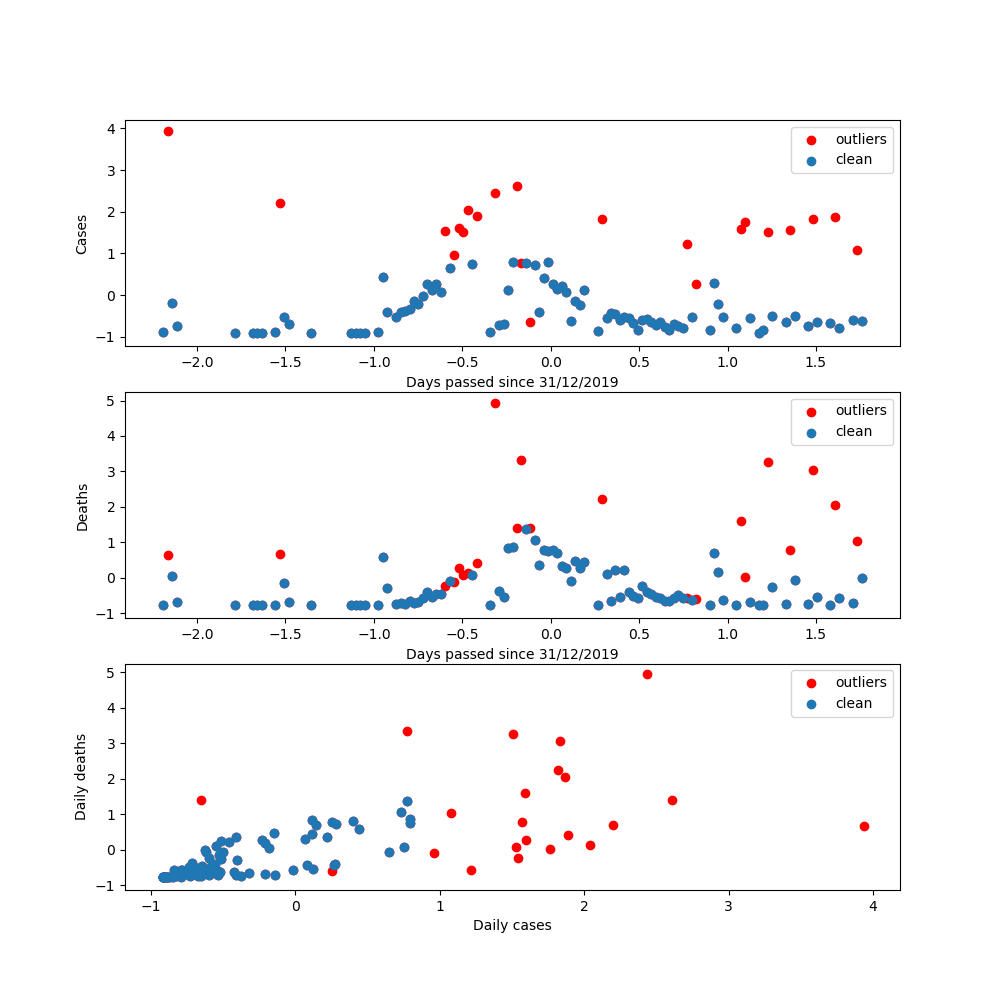
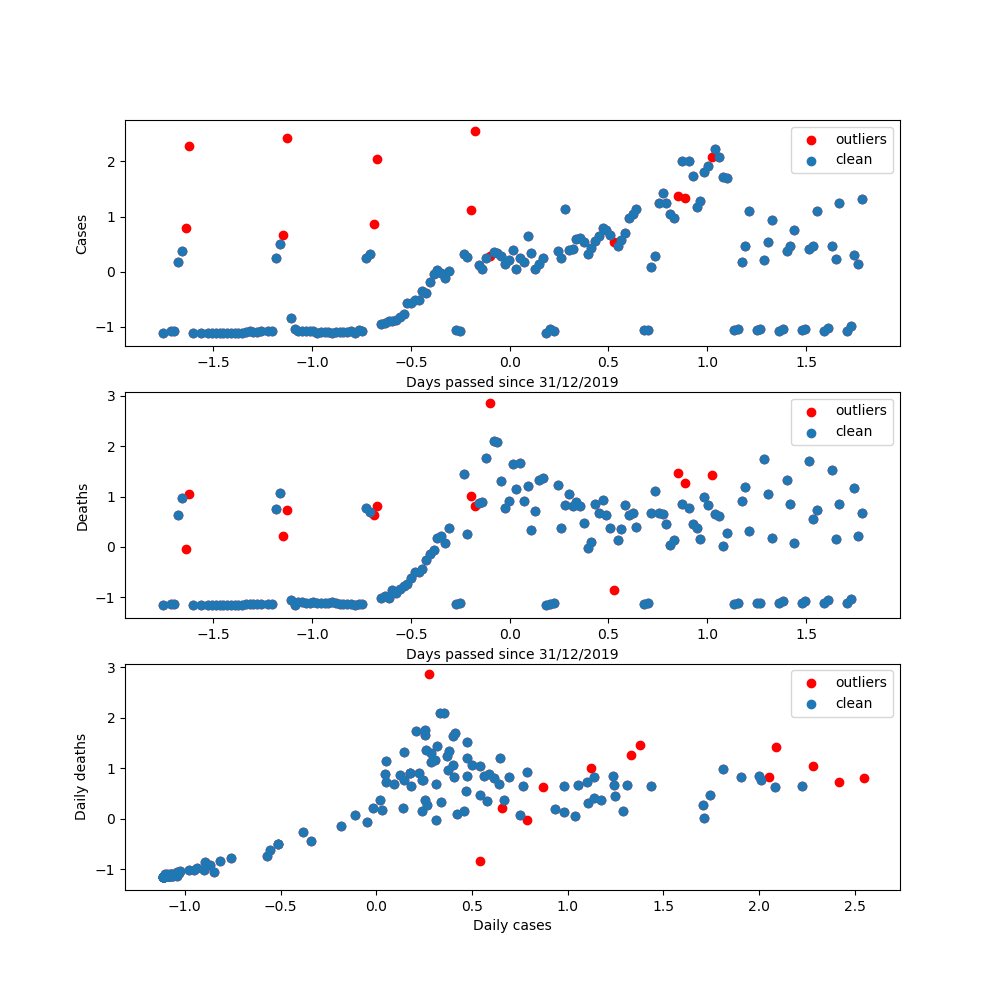
a few modifications

diff --git a/models/linear.py b/models/linear.py
@@ -14,19 +14,8 @@ from sklearn.neighbors import LocalOutlierFactor
 
 
 def linear(data):
-#Casting 1D array in 2D
     x = np.array(data[['time','cases']])
     y = np.array(data['deaths'])
-
-#Removing outliers
-
-#    clf = LocalOutlierFactor(n_neighbors=2, contamination = 0.1)
-#    x = x[clf.fit_predict(y.reshape(-1,1)) == 1]
-#    y = y[clf.fit_predict(y.reshape(-1,1)) == 1]
-    cov = EllipticEnvelope(random_state=0).fit(y.reshape(-1,1))
-    cov.predict(y.reshape(-1,1))
-    x = x[cov.predict(y.reshape(-1,1)) == 1]
-    y = y[cov.predict(y.reshape(-1,1)) == 1]
 
     x_train, x_test, y_train, y_test = train_test_split(x, y, test_size=0.3, random_state=42)
 

diff --git a/other/non-linear.py b/other/non-linear.py
@@ -28,12 +28,7 @@ x = np.array(global_data[['time','cases']])
 plt.scatter(x[:,0],y)
 plt.scatter(x[:,1],y)
 
-from sklearn.neighbors import LocalOutlierFactor
 from sklearn.pipeline import Pipeline
-
-clf = LocalOutlierFactor(n_neighbors=2, contamination = 0.1)
-x = x[clf.fit_predict(y.reshape(-1,1)) == 1]
-y = y[clf.fit_predict(y.reshape(-1,1)) == 1]
 
 plt.scatter(x[:,0],y, label = 'outliers')
 plt.legend()
